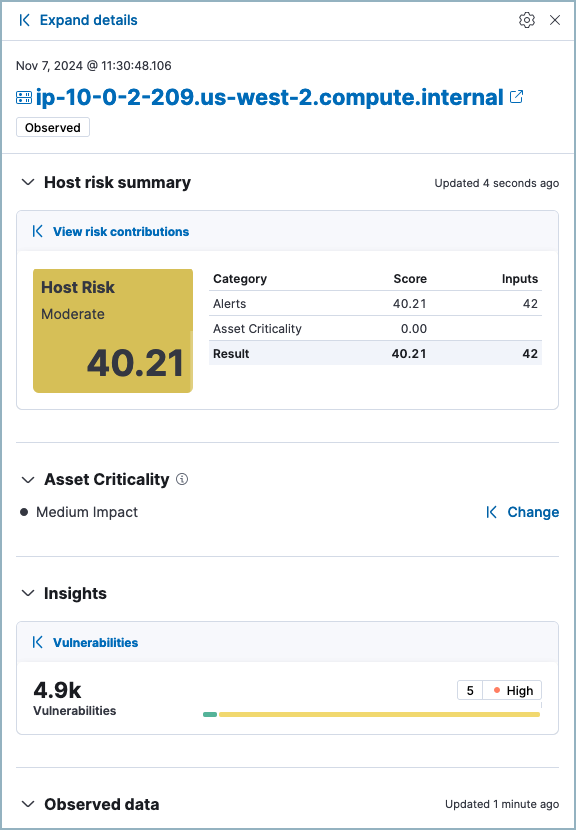
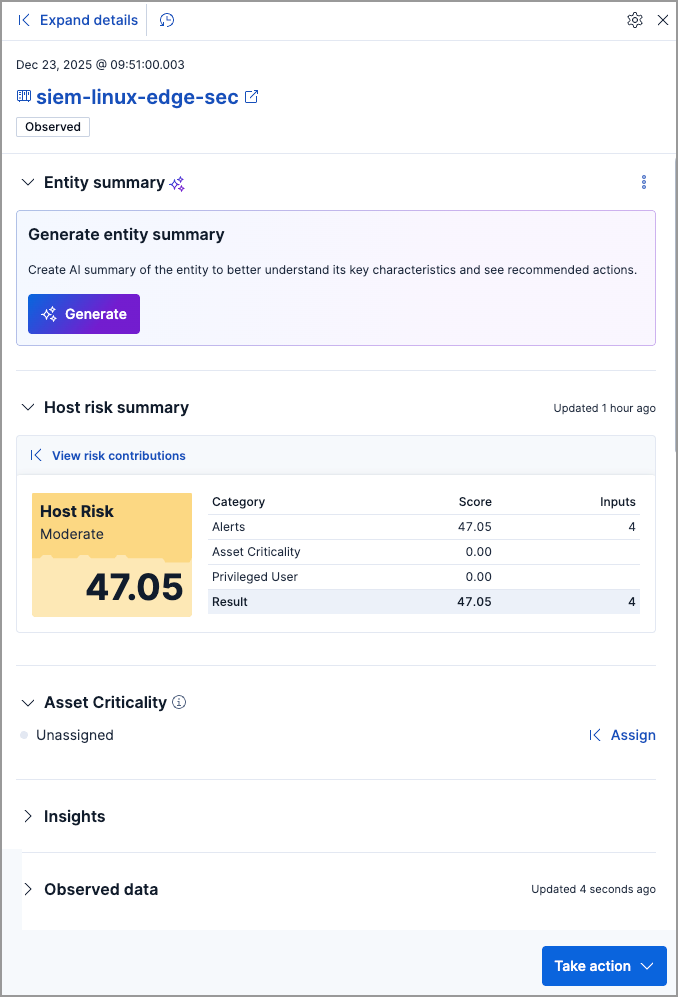
[Security] [Serverless: Jan 6] Entity summary (#4443)
## Summary

Resolves https://github.com/elastic/docs-content/issues/3818 by
documenting the new **Entity summary** section in the entity details
flyout.

Preview: [Entity details
flyout](https://docs-v3-preview.elastic.dev/elastic/docs-content/pull/4443/solutions/security/advanced-entity-analytics/view-entity-details#entity-details-flyout)

## Generative AI disclosure
<!--
To help us ensure compliance with the Elastic open source and
documentation guidelines, please answer the following:
-->
1. Did you use a generative AI (GenAI) tool to assist in creating this
contribution?
- [x] Yes  
- [ ] No  

Tool(s) and model(s) used:
Cursor, composer-1

diff --git a/explore-analyze/ai-features.md b/explore-analyze/ai-features.md
@@ -110,14 +110,10 @@ The [Model Context Protocol (MCP)](/solutions/search/mcp.md) lets you connect AI
 
 [Elastic AI Assistant for Security](/solutions/security/ai/ai-assistant.md) helps you with tasks such as alert investigation, incident response, and query generation throughout {{elastic-sec}}. It provides a chat interface where you can ask questions about the {{stack}} and your data, and provides contextual insights that explain errors and messages and suggest remediation steps.
 
-This feature requires an [LLM connector](/explore-analyze/ai-features/llm-guides/llm-connectors.md).
-
 
 ### Attack Discovery
 
 [Attack Discovery](/solutions/security/ai/attack-discovery.md) uses AI to triage your alerts and identify potential threats. Each "discovery" represents a potential attack and describes relationships among alerts to identify related users and hosts, map alerts to the MITRE ATT&CK matrix, and help identify threat actors.
-
-This feature requires an [LLM connector](/explore-analyze/ai-features/llm-guides/llm-connectors.md).
 
 
 ### Automatic Migration
@@ -127,14 +123,10 @@ This feature requires an [LLM connector](/explore-analyze/ai-features/llm-guides
 * Splunk rules
 * Splunk dashboards
 
-This feature requires an [LLM connector](/explore-analyze/ai-features/llm-guides/llm-connectors.md).
-
 
 ### Automatic Import
 
 [Automatic Import](/solutions/security/get-started/automatic-import.md) helps you ingest data from sources that do not have prebuilt Elastic integrations. It uses AI to parse a sample of the data you want to ingest, and creates a new integration specifically for that type of data.
-
-This feature requires an [LLM connector](/explore-analyze/ai-features/llm-guides/llm-connectors.md).
 
 
 ### Automatic Troubleshooting
@@ -144,4 +136,11 @@ This feature requires an [LLM connector](/explore-analyze/ai-features/llm-guides
 * **Policy responses**: Detect warnings or failures in {{elastic-defend}}’s integration policies.
 * **Third-party antivirus (AV) software**: Identify installed third-party antivirus (AV) products that might conflict with {{elastic-defend}}.
 
-This feature requires an [LLM connector](/explore-analyze/ai-features/llm-guides/llm-connectors.md).
+
+### Entity summary
+```yaml {applies_to}
+stack: ga 9.3
+serverless: ga
+```
+
+[Entity summary](/solutions/security/advanced-entity-analytics/view-entity-details.md#entity-summary), available in the entity details flyout, uses AI to generate a summary of a user's or host's security context. It aggregates information such as risk scores, asset criticality, vulnerabilities, and {{ml}} anomalies to provide a consolidated view of the entity's security posture. The summary helps you prioritize investigations and identify recommended next steps.

diff --git a/solutions/security/advanced-entity-analytics/view-entity-details.md b/solutions/security/advanced-entity-analytics/view-entity-details.md
@@ -18,6 +18,7 @@ You can learn more about an entity (host, user, or service) from the entity deta
 
 The entity details flyout includes the following sections:
 
+* {applies_to}`serverless: ga` {applies_to}`stack: ga 9.3` [Entity summary](#entity-summary), which allows you to generate an AI summary of the entity.
 * [Entity risk summary](#entity-risk-summary), which displays entity risk data and inputs.
 * [Asset Criticality](#asset-criticality), which allows you to view and assign asset criticality.
 * [Insights](#insights), which displays vulnerabilities or misconfiguration findings for the entity.
@@ -25,6 +26,40 @@ The entity details flyout includes the following sections:
 
 :::{image} /solutions/images/security-host-details-flyout.png
 :alt: Host details flyout
+:screenshot:
+:::
+
+### Entity summary
+```yaml {applies_to}
+stack: ga 9.3
+serverless: ga
+```
+
+::::{note}
+* To generate an AI summary, you need to configure a [generative AI connector](kibana://reference/connectors-kibana/gen-ai-connectors.md).
+* This feature is only available for users and hosts.
+::::
+
+The **Entity summary** section allows you to generate an AI-powered summary of the entity's security context. Click **Generate** to create a comprehensive overview that aggregates information from:
+
+* Risk scores and risk inputs
+* Asset criticality levels
+* Vulnerabilities
+* {{ml-cap}} anomalies associated with the entity
+
+The summary provides a consolidated view of the entity's security posture, helping you quickly assess its significance and prioritize investigations. It includes information such as:
+
+* The entity's current risk score with details about which alerts or rules contribute most significantly to the score
+* The entity's asset criticality level and how it contributes to the overall risk score
+* Details about detected vulnerabilities, including CVE identifiers, CVSS scores, affected packages or systems, and remediation guidance
+* Recommended next steps based on the entity's security posture, such as updating vulnerable packages, investigating specific alerts, or implementing additional security controls
+
+::::{tip}
+If you have [AI Assistant](/solutions/security/ai/ai-assistant.md) or [Agent Builder](/solutions/search/elastic-agent-builder.md) set up, you can select **More actions** ({icon}`boxes_vertical`) → **Ask AI Assistant** or **Add to chat** to continue the conversation about the entity in AI Assistant or Agent Builder.
+::::
+
+:::{image} /solutions/images/security-entity-summary.png
+:alt: Entity summary
 :screenshot:
 :::
 
